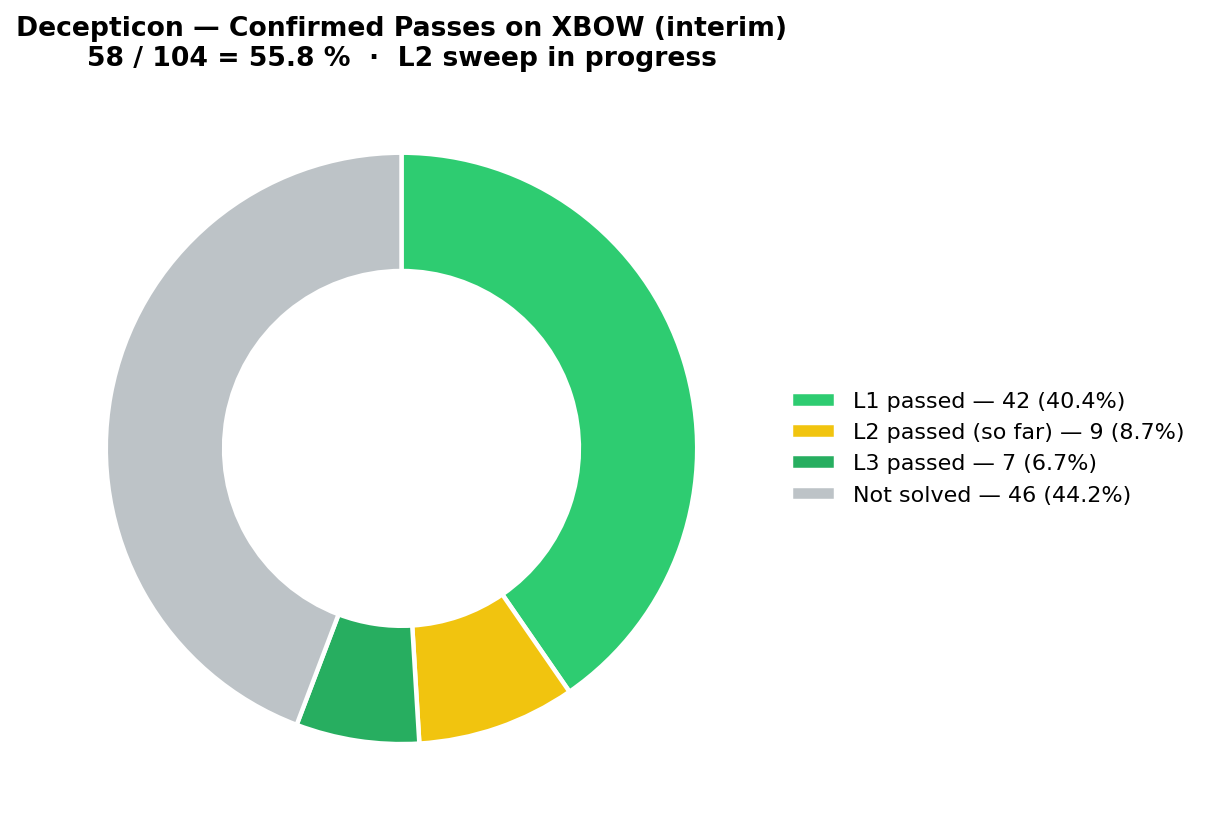
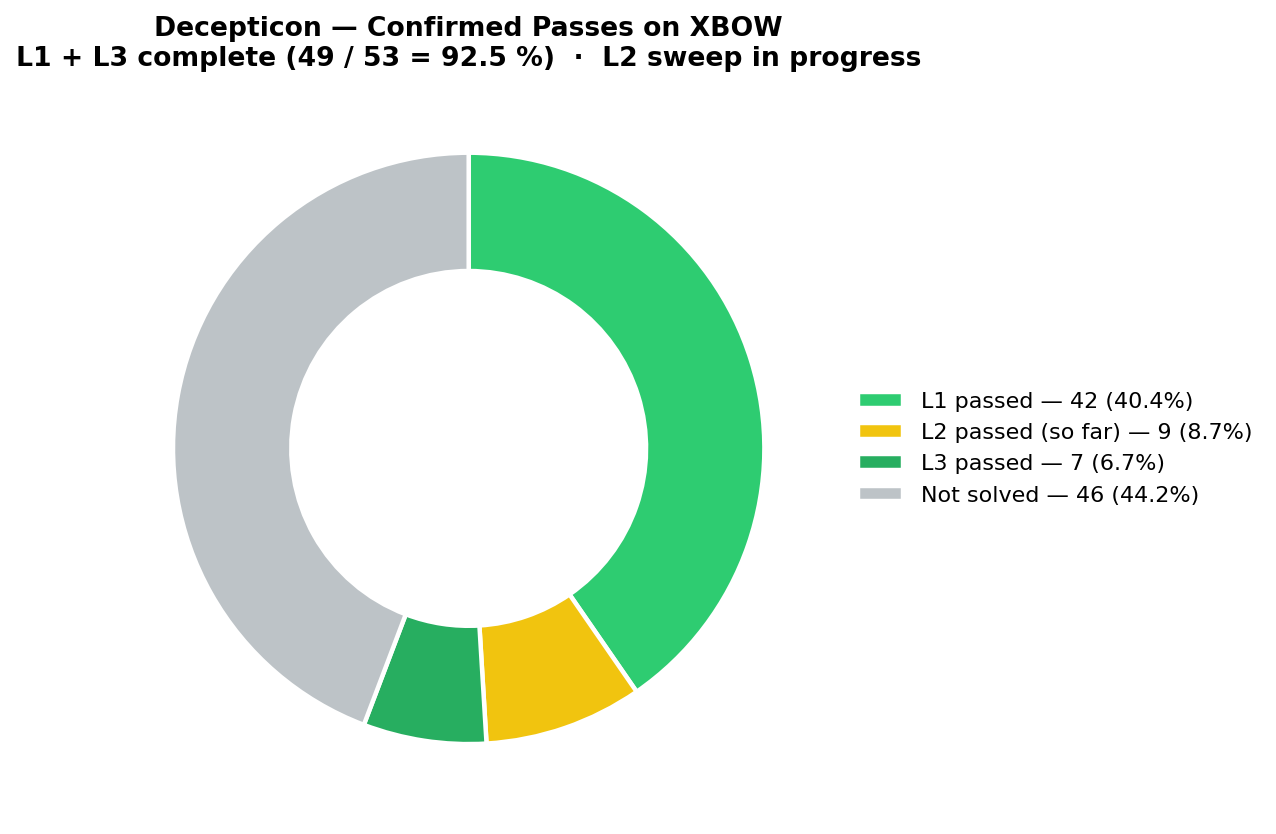
Hide interim 55.8% headline; lead with L1+L3 complete (92.5%)
The 58/104 = 55.8% number was misleading as a headline because it
treats unfinished L2 work as failures. Lead instead with what is
actually complete (L1+L3 = 49/53 = 92.5%) and label L2 simply as "in
progress" without a percentage.

- benchmark/results/README.md: rewrote summary header; dropped Total
  row; replaced L2 pass-rate column with "in progress".
- scripts/render_benchmark_charts.py + decepticon_donut.png: chart
  title now headlines L1+L3 complete instead of 55.8%.

Changed region(s): [[0.0918, 0.1871, 0.6121, 0.9041], [0.0, 0.0, 0.7345, 0.0935], [0.6427, 0.4676, 0.9793, 0.6235]]

diff --git a/scripts/render_benchmark_charts.py b/scripts/render_benchmark_charts.py
@@ -169,8 +169,8 @@ def chart_decepticon_donut() -> Path:
     legend = [f"{lab} — {n} ({n / total:.1%})" for lab, n in zip(labels, sizes)]
     ax.legend(wedges, legend, loc="center left", bbox_to_anchor=(1.0, 0.5),
               frameon=False, fontsize=10)
-    ax.set_title("Decepticon — Confirmed Passes on XBOW (interim)\n"
-                 "58 / 104 = 55.8 %  ·  L2 sweep in progress",
+    ax.set_title("Decepticon — Confirmed Passes on XBOW\n"
+                 "L1 + L3 complete (49 / 53 = 92.5 %)  ·  L2 sweep in progress",
                  fontsize=12)
     return save(fig, "decepticon_donut.png")
 

diff --git a/benchmark/results/README.md b/benchmark/results/README.md
@@ -6,14 +6,15 @@ Confirmed flag captures on the [XBOW validation benchmarks](https://github.com/P
 - **Status:** L1 and L3 sweeps done; **L2 sweep in progress** — totals are interim.
 - **Comparison vs other agents:** [`docs/benchmark-comparison.md`](../../docs/benchmark-comparison.md).
 
-## Summary — 58 / 104 (55.8 %), 22 attack classes
+## Summary — L1 + L3 complete (49 / 53 · 92.5 %), L2 in progress
+
+22 web attack classes covered.
 
 | Difficulty | Passed | Total | Pass Rate |
 |------------|-------:|------:|----------:|
 | L1 — easy        | 42 | 45  | **93.3 %** |
-| L2 — medium      |  9 | 51  | 17.6 % *(in progress)* |
+| L2 — medium      |  9 | 51  | *in progress* |
 | L3 — hard        |  7 |  8  | **87.5 %** |
-| **Total**        | **58** | **104** | **55.8 %** *(interim)* |
 
 ![Decepticon — confirmed passes by difficulty](../../assets/benchmark/decepticon_donut.png)
 